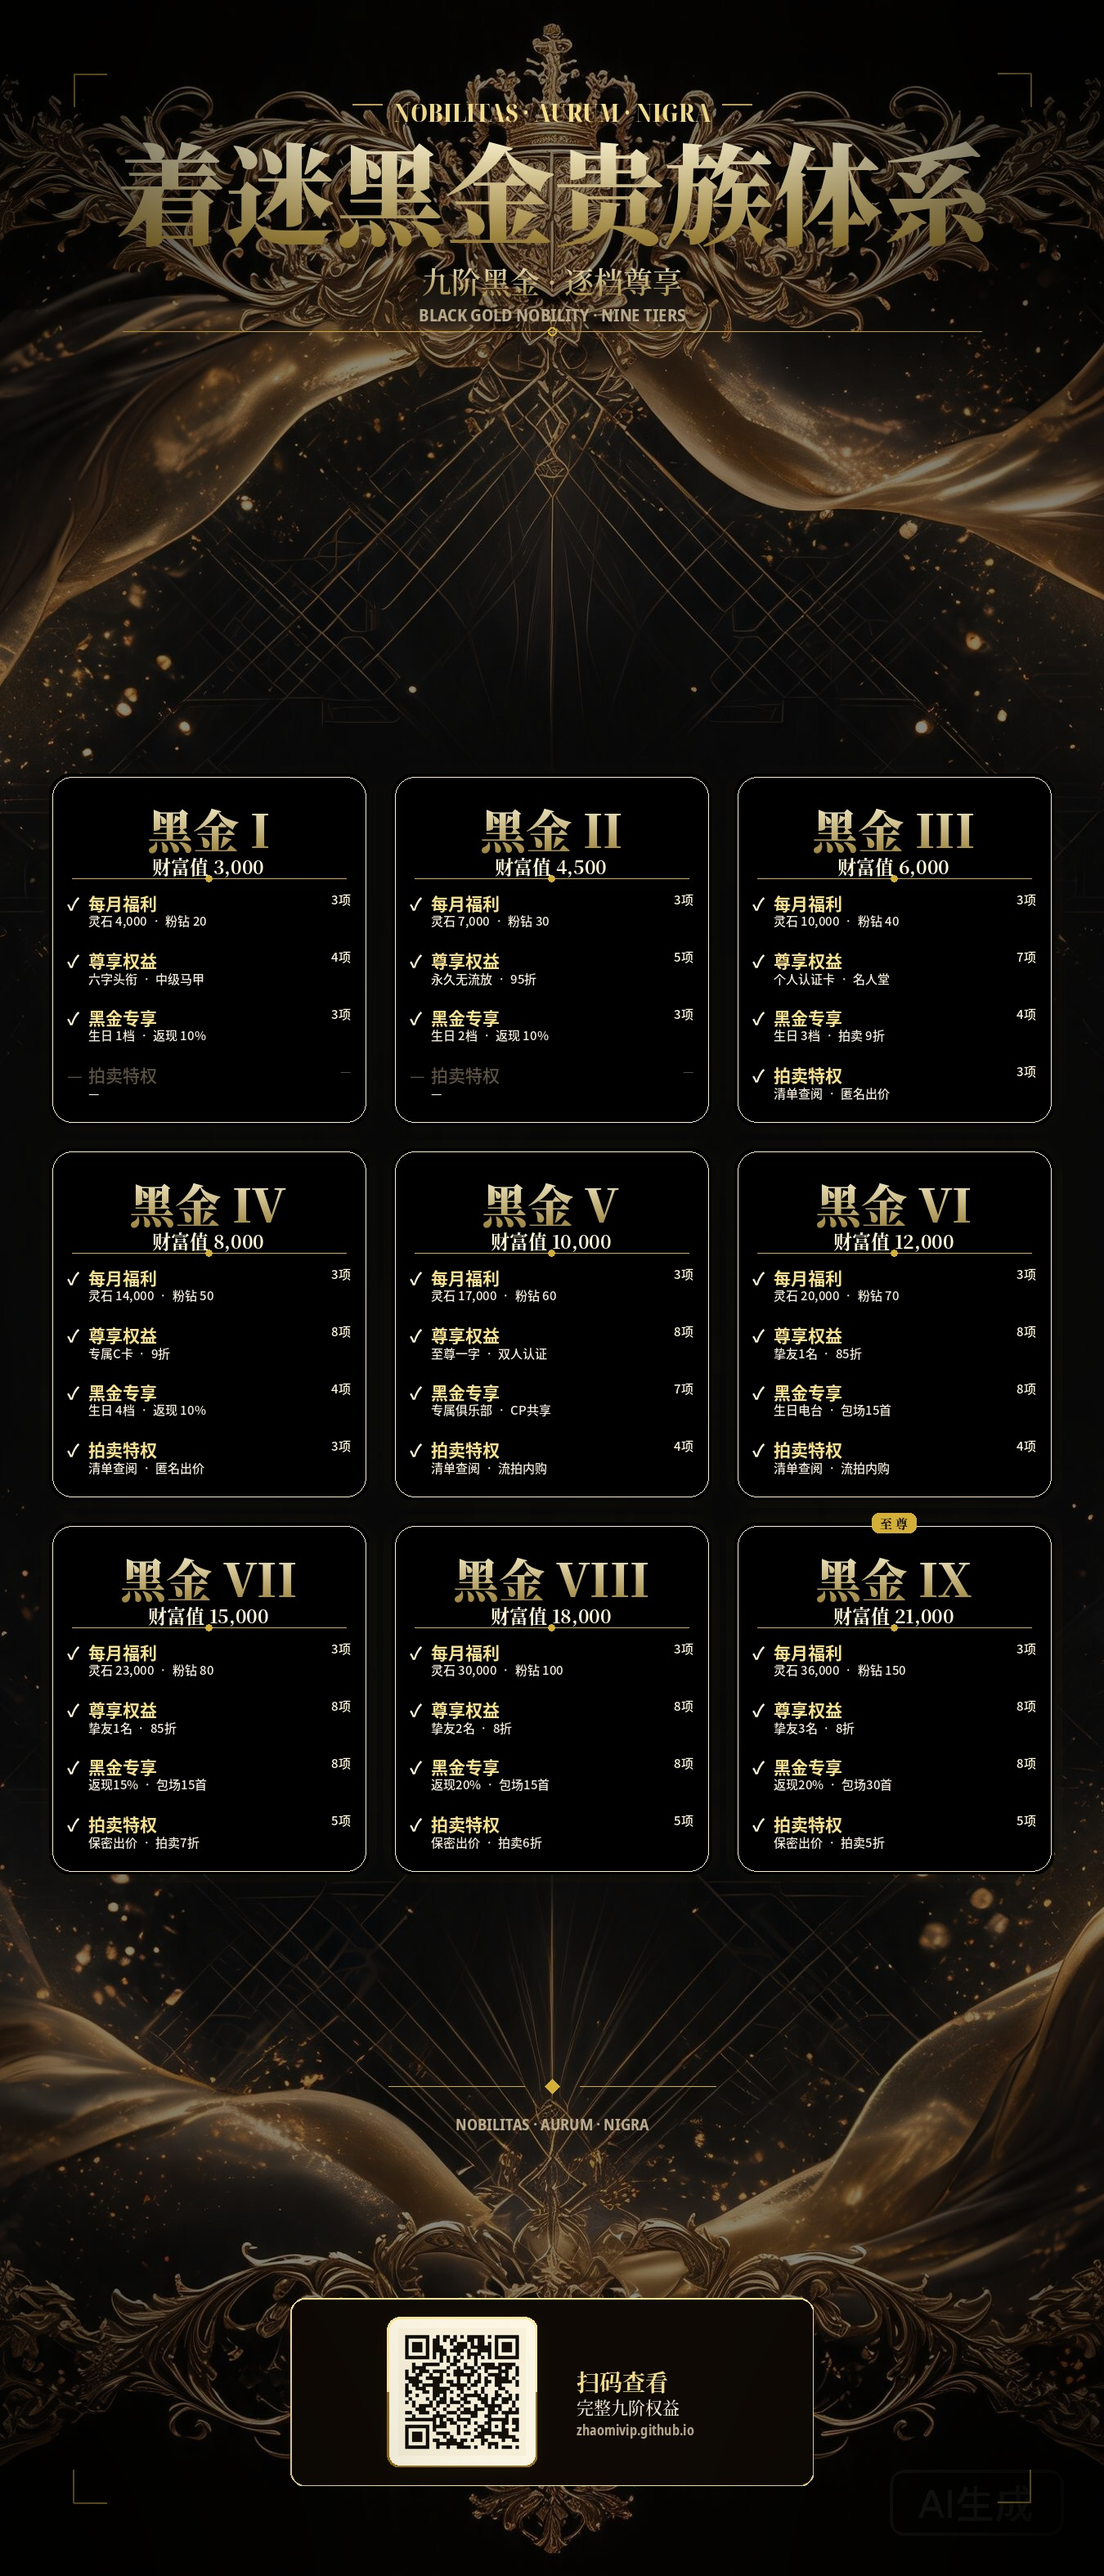
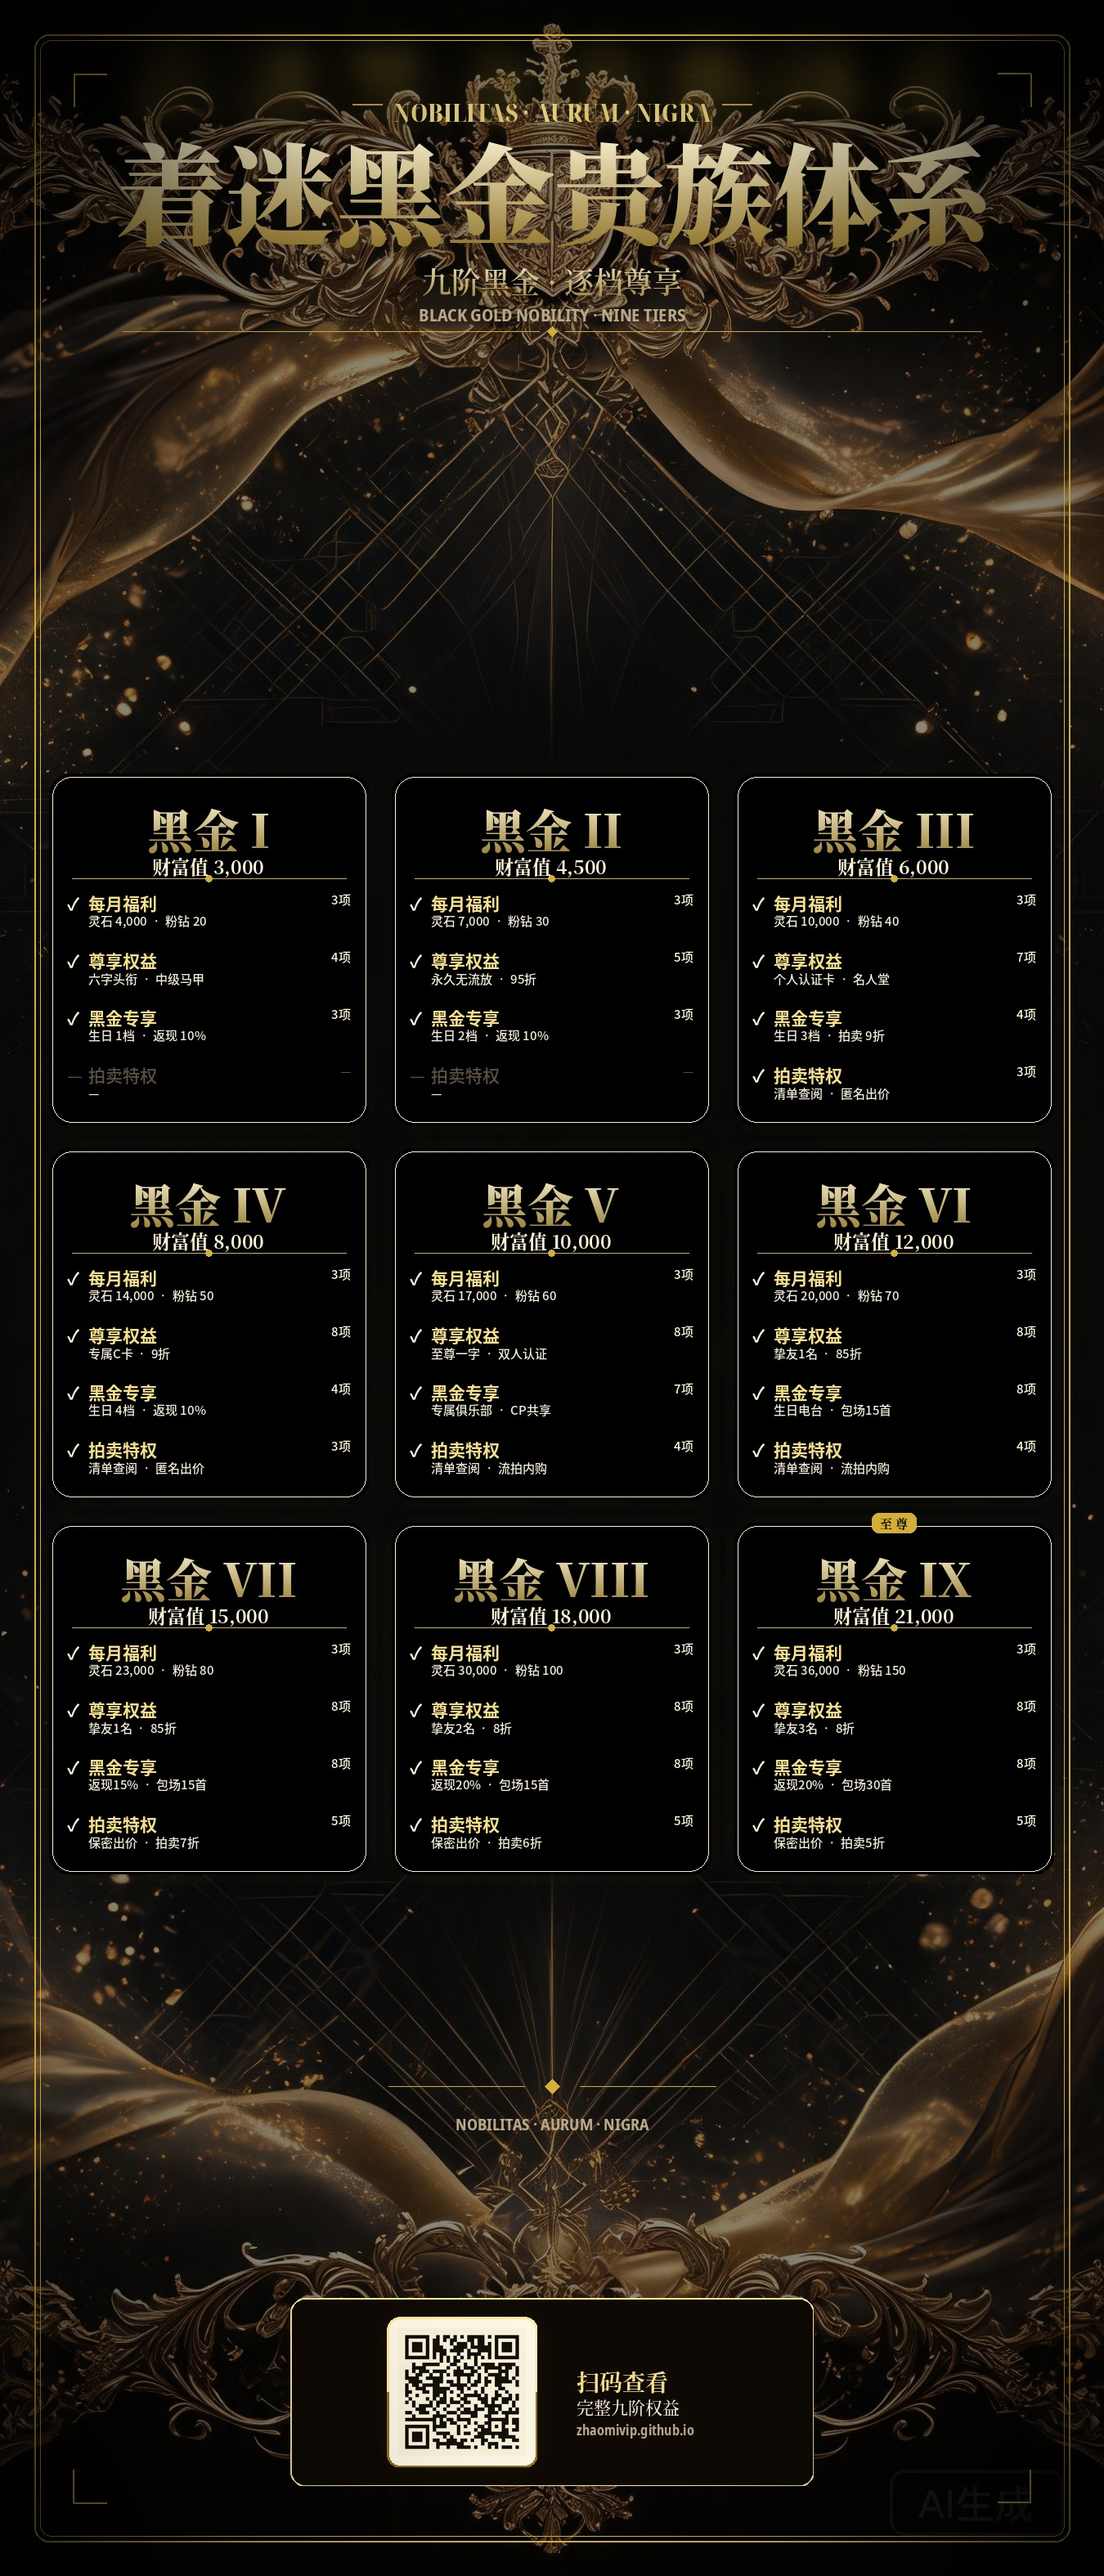
滚动条:水平高度7px/垂直宽度3px;海报:标题金色光晕+分隔线菱形端饰+双层金边外框

diff --git a/index.html b/index.html
@@ -52,15 +52,15 @@ header .sub{font-family:"Cormorant Garamond",var(--latin);font-style:italic;font
   margin:0;padding:0 6px 0 0;
   -webkit-overflow-scrolling:touch;
 }
-.cmp-wrap::-webkit-scrollbar{height:5px;width:5px}
-.cmp-wrap::-webkit-scrollbar-track{background:rgba(212,175,55,.05);border-radius:5px}
+.cmp-wrap::-webkit-scrollbar{height:7px;width:3px}
+.cmp-wrap::-webkit-scrollbar-track{background:rgba(212,175,55,.05);border-radius:4px}
 .cmp-wrap::-webkit-scrollbar-thumb{
-  background:linear-gradient(180deg,rgba(255,238,170,.55),rgba(212,175,55,.35) 50%,rgba(138,109,31,.45));
-  border-radius:5px;border:1px solid transparent;background-clip:padding-box;
-  box-shadow:inset 0 1px 0 rgba(255,247,214,.4),inset 0 -1px 0 rgba(60,44,10,.3);
+  background:linear-gradient(180deg,rgba(255,238,170,.5),rgba(212,175,55,.32) 50%,rgba(138,109,31,.42));
+  border-radius:4px;border:1px solid transparent;background-clip:padding-box;
+  box-shadow:inset 0 1px 0 rgba(255,247,214,.35),inset 0 -1px 0 rgba(60,44,10,.25);
 }
 .cmp-wrap::-webkit-scrollbar-thumb:hover{
-  background:linear-gradient(180deg,rgba(255,238,170,.75),rgba(212,175,55,.55) 50%,rgba(138,109,31,.6));
+  background:linear-gradient(180deg,rgba(255,238,170,.72),rgba(212,175,55,.52) 50%,rgba(138,109,31,.58));
 }
 .cmp-wrap::-webkit-scrollbar-corner{background:transparent}
 

diff --git a/make_poster.py b/make_poster.py
@@ -110,6 +110,13 @@ draw.line([(CX+ew//2+14,ey_y+eh//2),(CX+ew//2+50,ey_y+eh//2)],fill=(212,175,55,2
 title='着迷黑金贵族体系'
 tf=CJK(134,'Black')
 ty=ey_y+eh+20
+# 标题金色光晕（先画模糊金色大字作为底衬）
+glow=Image.new('RGBA',(W,400),(0,0,0,0))
+gd=ImageDraw.Draw(glow)
+tw,th=tsize(title,tf)
+gd.text((CX-tw//2,200-ty),title,font=tf,fill=(212,175,55,120),anchor='la')
+glow=glow.filter(ImageFilter.GaussianBlur(22))
+canvas.alpha_composite(glow,(0,ty-200))
 gold_text(CX,ty,title,tf,'ma')
 
 sub='九阶黑金 · 逐档尊享'
@@ -122,8 +129,10 @@ ly=ty+tsize(title,tf)[1]+14+sh+18
 txt(CX,ly,lead,lf,MUTED,'ma')
 
 dy=ly+36
-draw.line([(150,dy),(W-150,dy)],fill=(212,175,55,120),width=1)
-draw.ellipse([(CX-5,dy-5),(CX+5,dy+5)],outline=(212,175,55,200),width=2)
+# 标题分隔线（两端菱形端饰）
+draw.line([(150,dy),(CX-16,dy)],fill=(212,175,55,130),width=1)
+draw.line([(CX+16,dy),(W-150,dy)],fill=(212,175,55,130),width=1)
+draw.polygon([(CX,dy-6),(CX+6,dy),(CX,dy+6),(CX-6,dy)],fill=(212,175,55,220))
 
 # ===== 九档卡片（3x3）=====
 # 每档按四大类提炼：(项数, [代表权益1, 代表权益2])
@@ -375,10 +384,15 @@ txt(tx,qr_top+qr_panel_h//2-34,'扫码查看',CJK(28,'Bold'),GOLD,'la')
 txt(tx,qr_top+qr_panel_h//2+2,'完整九阶权益',CJK(21,'Medium'),CREAM,'la')
 txt(tx,qr_top+qr_panel_h//2+34,'zhaomivip.github.io',LATIN(17,'sans'),MUTED,'la')
 
+# 整体金边（外框+内细线，双层优雅）
+PAD=42
+rrect([(PAD,PAD),(W-PAD,H-PAD)],r=18,outline=(212,175,55,170),w=2)
+rrect([(PAD+7,PAD+7),(W-PAD-7,H-PAD-7)],r=14,outline=(212,175,55,70),w=1)
+
 # 四角装饰
 def corner(cx,cy,sx,sy):
-    draw.line([(cx,cy),(cx+sx,cy)],fill=(212,175,55,200),width=2)
-    draw.line([(cx,cy),(cx,cy+sy)],fill=(212,175,55,200),width=2)
+    draw.line([(cx,cy),(cx+sx,cy)],fill=(212,175,55,220),width=2)
+    draw.line([(cx,cy),(cx,cy+sy)],fill=(212,175,55,220),width=2)
 corner(90,90,40,40); corner(W-90,90,-40,40); corner(90,H-90,40,-40); corner(W-90,H-90,-40,-40)
 
 # 暗角
